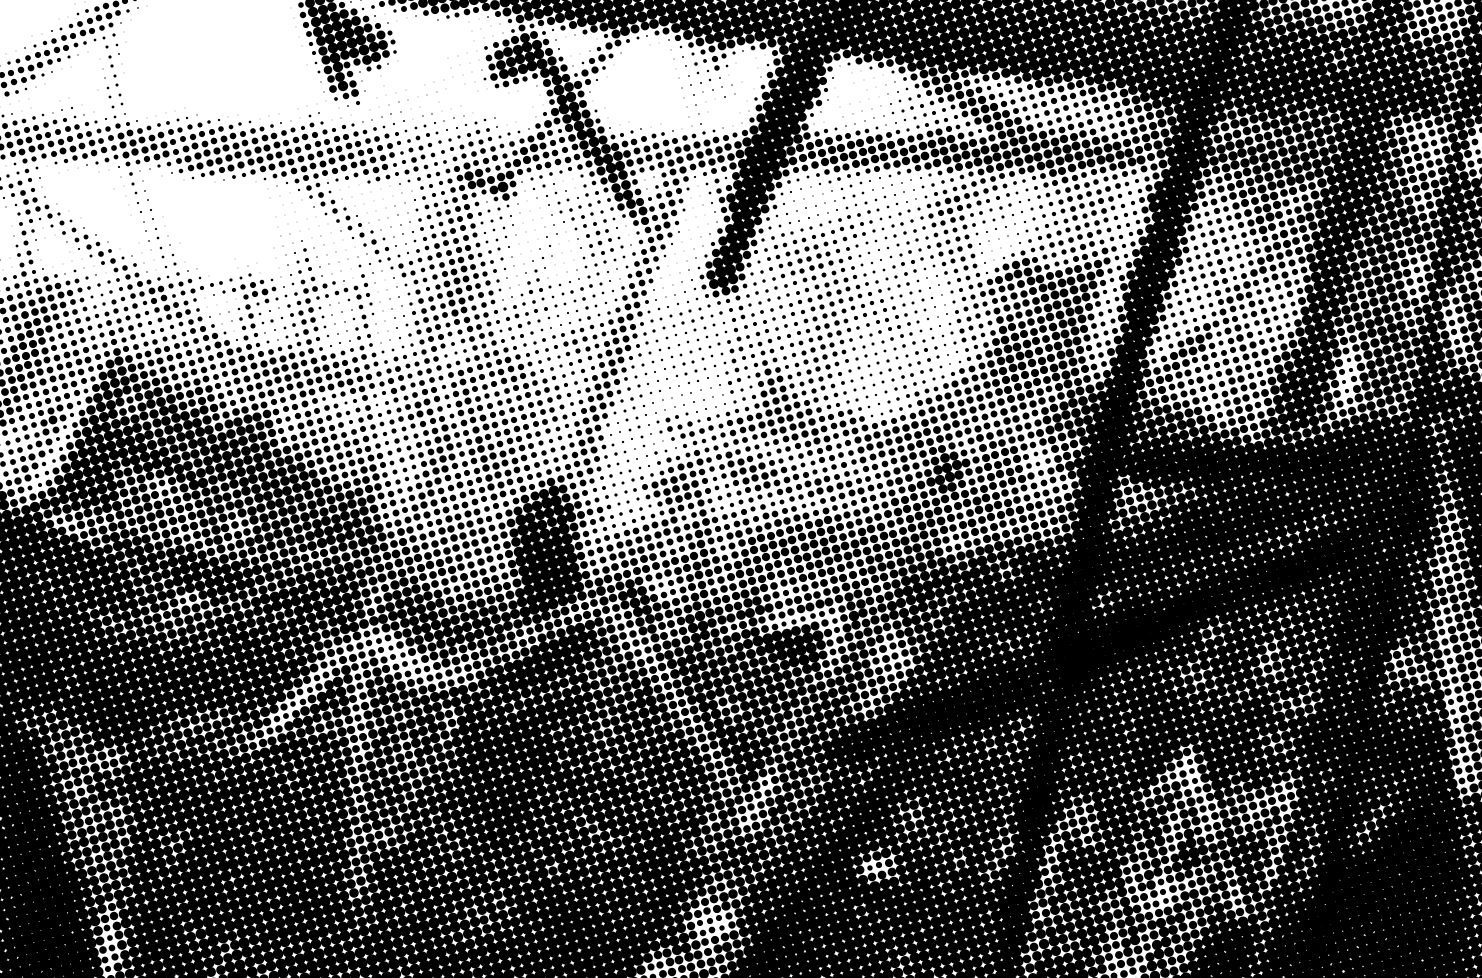
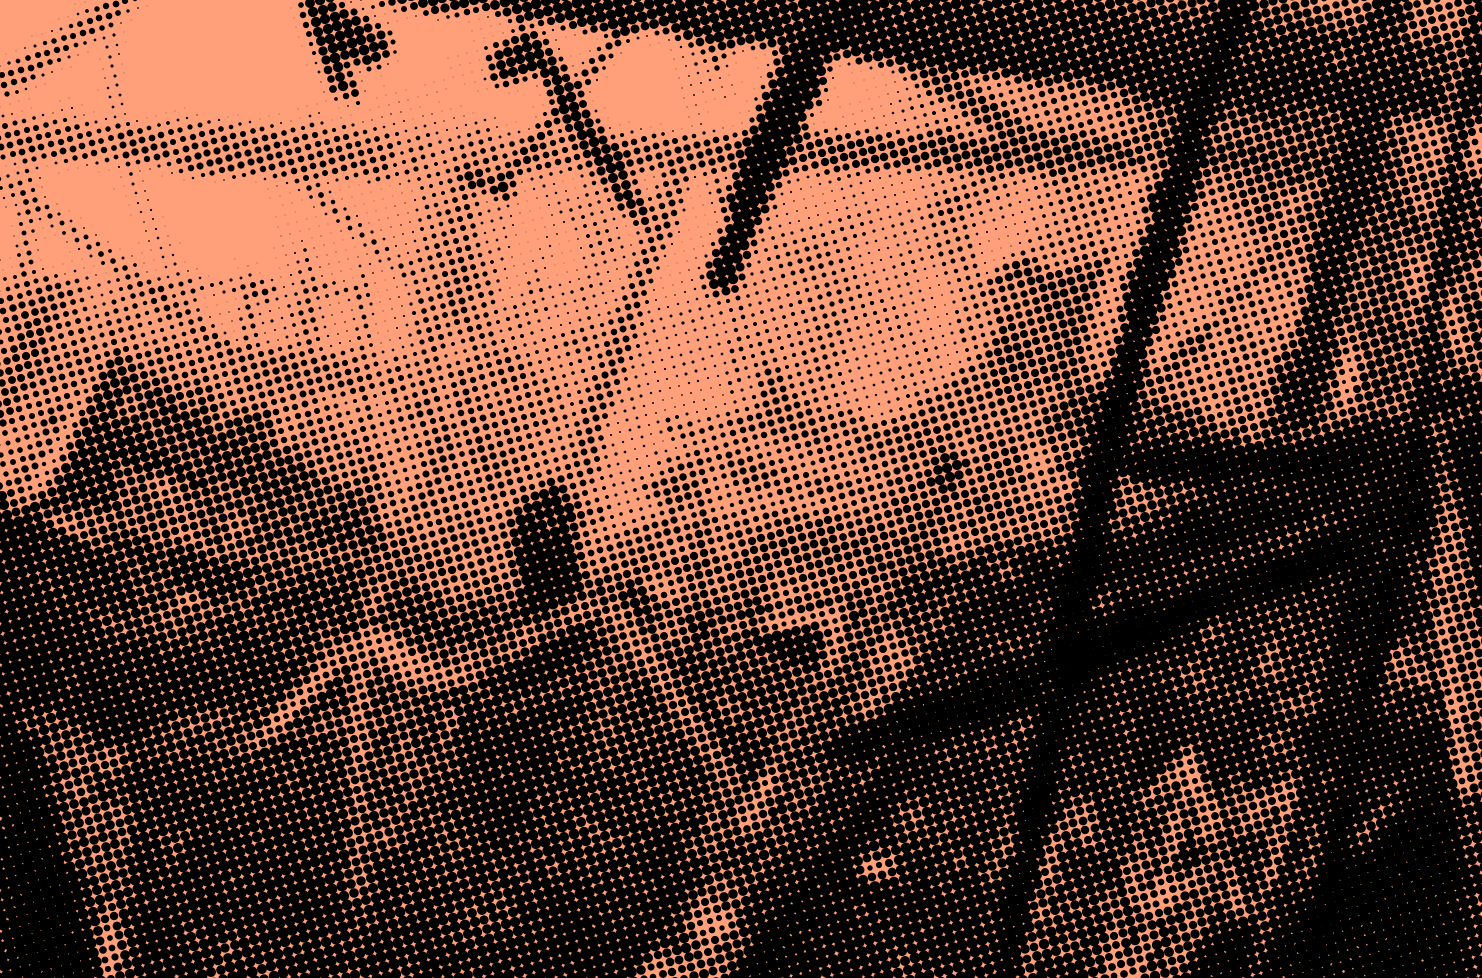
change color scheme

diff --git a/assets/css/layout.css b/assets/css/layout.css
@@ -26,7 +26,7 @@ html {
 
 body {
     background-color: black;
-    color: white;
+    color: lightsalmon;
     font-family: Courier, monospace;
     font-weight: 400;
     font-style: normal;
@@ -34,7 +34,7 @@ body {
 }
 
 ::selection {
-    background: white;
+    background: lightsalmon;
     color: black
 }
 
@@ -44,13 +44,13 @@ body {
 }
 
 a:link, a:active, a:visited {
-    color: white;
-    border-bottom: 0.25vh solid white;
+    color: lightsalmon;
+    border-bottom: 0.25vh solid lightsalmon;
     text-decoration: none;
 }
 
 a:hover {
-    color: white;
+    color: lightsalmon;
     text-decoration: none;
     border-bottom: 0px;
 }
@@ -81,7 +81,7 @@ a:hover {
 }
 
 .left {
-    border-right: 2px solid white;
+    border-right: 2px solid lightsalmon;
 }
 
 .left::-webkit-scrollbar, .right::-webkit-scrollbar {
@@ -173,7 +173,7 @@ h2 {
     bottom: 1%;
     right: 0%;
     background: transparent;
-    color: white;
+    color: lightsalmon;
     cursor: pointer;
     display: inline-block;
     text-align: right;
@@ -194,7 +194,7 @@ button.current-section {
     font-family: Flux-Regular, Arial, Helvetica, sans-serif;
     font-size: 2vw;
     background: black;
-    color: white;
+    color: lightsalmon;
     border: 0px;
     padding: 1%;
     position: fixed;
@@ -213,7 +213,7 @@ button.current-section {
 
 .nav {
     width: 100%;
-    border-top: 2px solid white;
+    border-top: 2px solid lightsalmon;
     padding: 1rem;
     height: inherit;
     align-items: center;
@@ -250,7 +250,7 @@ h1.toc {
     font-weight: normal;
     font-style: normal;
     padding-bottom: 3%;
-    border-bottom: 2px solid white;
+    border-bottom: 2px solid lightsalmon;
     margin: 0;
 }
 
@@ -272,8 +272,8 @@ button {
 
 button.toc {
     background: transparent;
-    color: white;
-    border: 2px solid white;
+    color: lightsalmon;
+    border: 2px solid lightsalmon;
     border-radius: 15%;
     width: 18vw;
     height: 18vw;
@@ -287,7 +287,7 @@ button.toc {
 
 button.toc:hover {
     color: black;
-    background: white;
+    background: lightsalmon;
 }
 
 /* .acknowledgements div {
@@ -320,7 +320,7 @@ h1.section {
     font-weight: normal;
     font-style: normal;
     font-size: 1.5vw;
-    border: 0.25vh solid white;
+    border: 0.25vh solid lightsalmon;
     border-radius: 14px;
     margin: 0px auto;
     padding: 2%;
@@ -333,8 +333,8 @@ h1.section-fill {
     font-weight: normal;
     font-style: normal;
     font-size: 3rem;
-    border: 2px solid white;
-    background: white;
+    border: 2px solid lightsalmon;
+    background: lightsalmon;
     border-radius: 14px;
     margin: 0px auto;
     padding: 2%;

diff --git a/_layouts/gift-wrap.html b/_layouts/gift-wrap.html
@@ -65,11 +65,12 @@
         {% endif %}
       </li>
       <li> <a href="{{"/actions/contents.html" | relative_url}}" class="nav">Table of contents</a> </li>
-      <!-- <li>
-                {% for page in site.actions %}
-                <a href="../{{page.section-url}}.html"> {{ page.section }} </a>
-                {% endfor %}
-              </li> -->
+      <!-- <li> -->
+        <!-- <a href="{{../../" | relative_url}}" class="nav"> Back to section </a> -->
+        <!-- {% for page in site.actions %}
+        <a href="../{{page.section-url}}.html"> {{ page.section }} </a>
+        {% endfor %} -->
+      <!-- </li> -->
       <li>
         {% if nexturl %}
         <a href="{{ nexturl | relative_url }}">

diff --git a/_layouts/questions.html b/_layouts/questions.html
@@ -4,7 +4,7 @@ layout: gift-wrap
 
 <style>
     .left {
-        background: white;
+        background: lightsalmon;
         background-position: center;
         background-repeat: no-repeat;
         background-size: cover;
@@ -21,7 +21,7 @@ layout: gift-wrap
     }
 
     p {
-        background-color: white;
+        background-color: lightsalmon;
         padding: 5%;
         transform: rotate(-1deg);
     }

diff --git a/_layouts/section-intro.html b/_layouts/section-intro.html
@@ -4,7 +4,7 @@ layout: gift-wrap
 
 <style>
     .left {
-        background: white;
+        background: lightsalmon;
         background-position: center;
         background-repeat: no-repeat;
         background-size: cover;
@@ -21,7 +21,7 @@ layout: gift-wrap
     }
 
     p {
-        background-color: white;
+        background-color: lightsalmon;
         padding: 5%;
         transform: rotate(-1deg);
     }

diff --git a/_layouts/contents.html b/_layouts/contents.html
@@ -4,7 +4,7 @@ layout: gift-wrap
 
 <style>
 .right {
-        background: white;
+        background: lightsalmon;
         background-position: center;
         background-repeat: no-repeat;
         background-size: cover;
